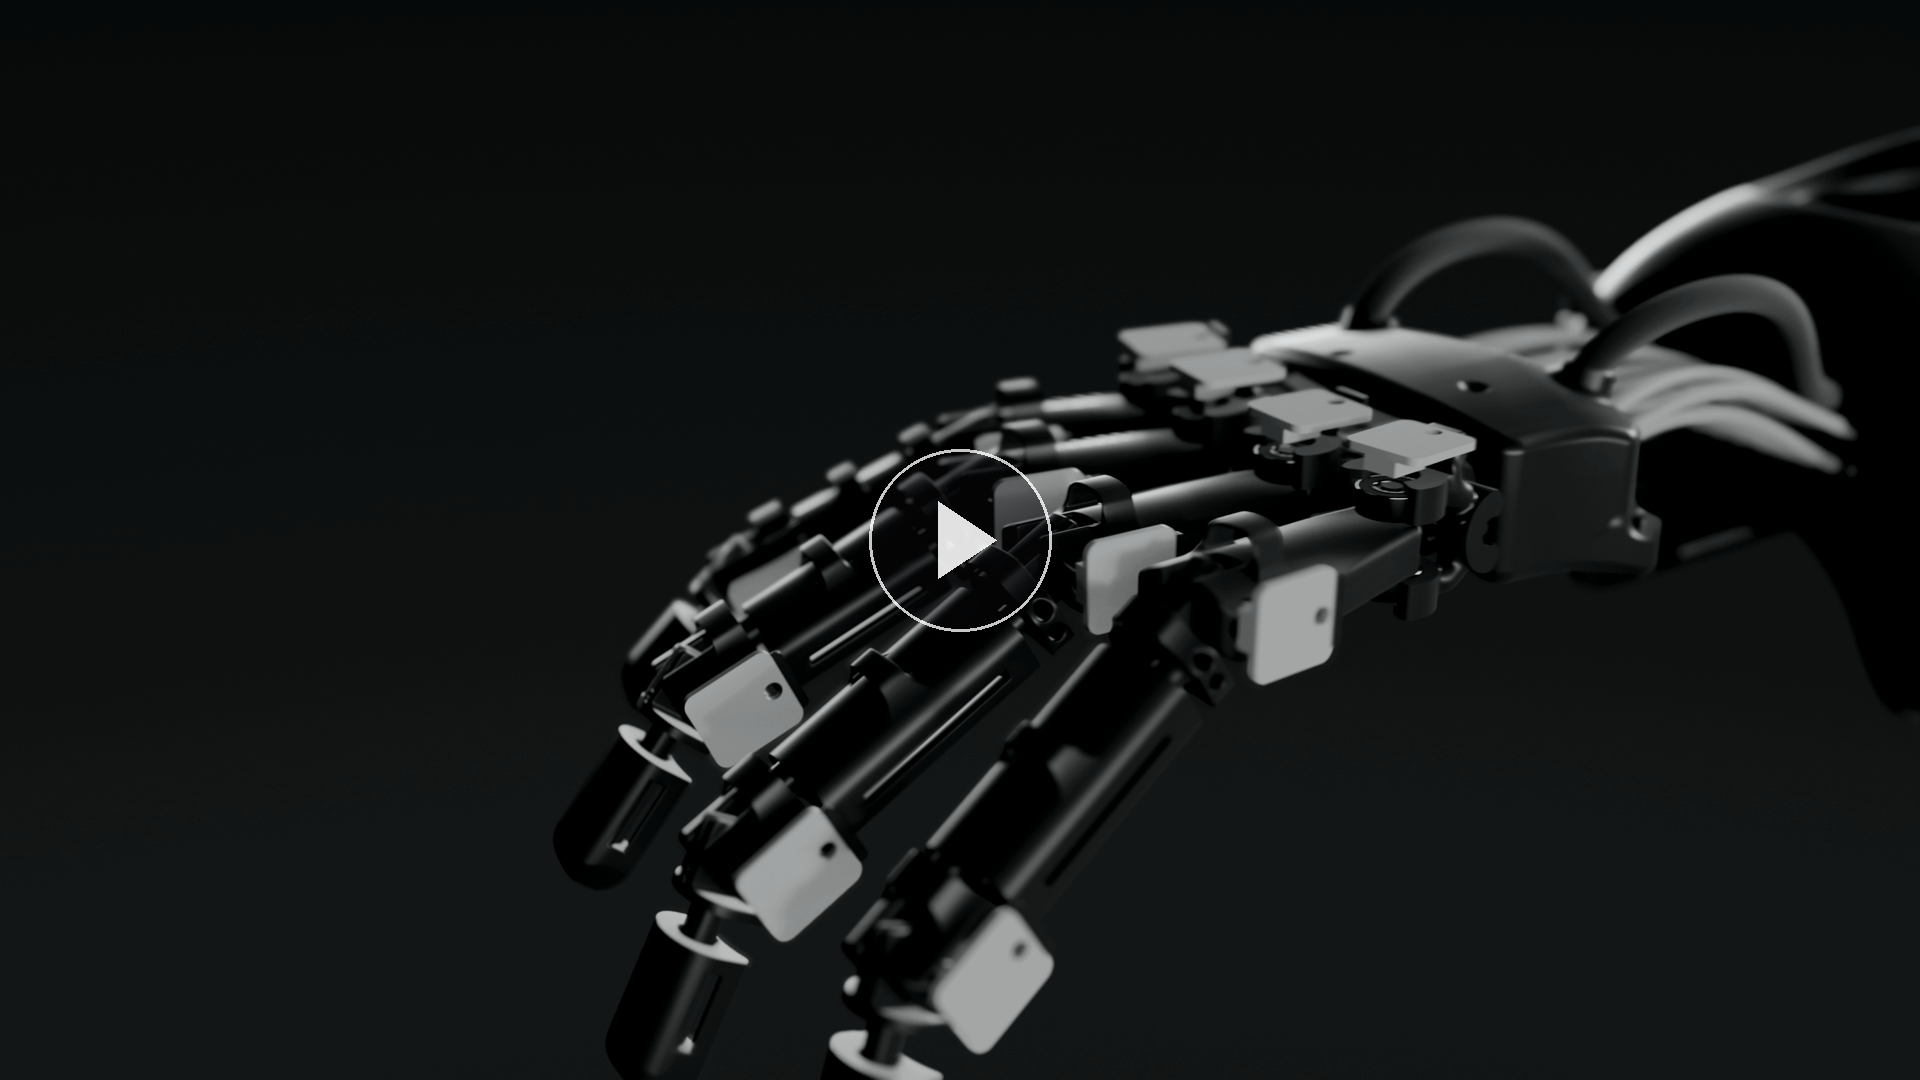
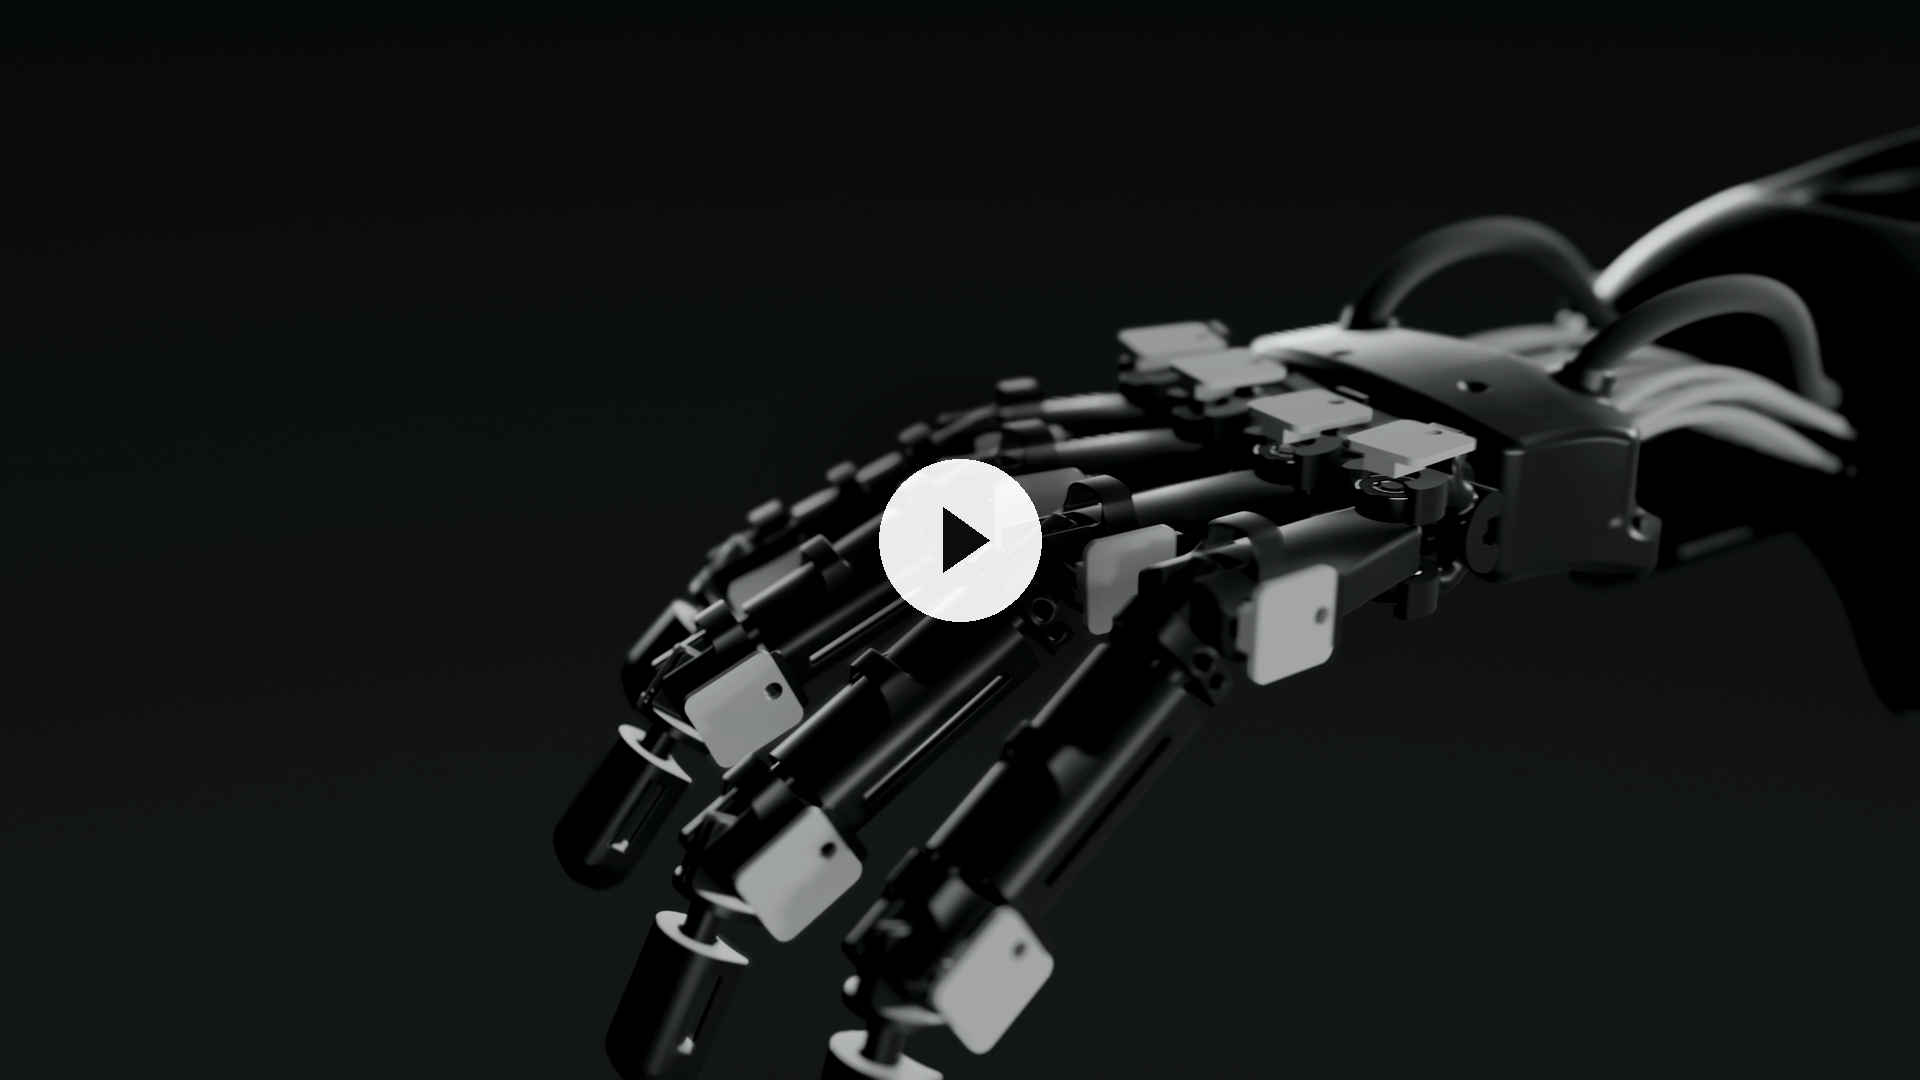
Make the film a poster you click, not looping clips
The autoplaying loops looked bad: silent, a few seconds long, cut mid-move, and
nothing like the film itself.

One poster instead. Clicking it opens the file in GitHub's video view, which
plays the whole thing at 1080p and normal speed, with sound.

A player inside the README is not available to write by hand: GitHub's
sanitiser strips <video> outright, and a repo-relative .mp4 is served as
application/octet-stream. The only inline player comes from pasting a bare
user-attachments URL, which GitHub converts itself. The README comment now says
that correctly - it previously said to paste a <video> tag, which would have
rendered nothing.

Changed region(s): [[0.4062, 0.3667, 0.5938, 0.6417]]

diff --git a/README.md b/README.md
@@ -23,21 +23,17 @@ force back into it, with every file needed to build one.
 
 <div align="center">
 
-<!-- The film. GitHub will not play a repo-relative .mp4 inline: raw.githubusercontent
-     serves it as application/octet-stream, so a <video> tag or image-syntax link renders
-     nothing. An animated WebP does autoplay inline, so the loop below plays on the page
-     with no click and no navigation, and links through to the full film with sound.
-     WebP rather than GIF because GIF is capped at 256 colours and pays per frame: the same
-     loop as a GIF was 10 fps and 2.97 MB, which visibly juddered on these slow camera moves.
-     This is 24 fps at 960 px in 1.65 MB.
-     To upgrade to a real inline player with audio: drag docs/media/takto-one-film.mp4 into
-     any issue comment or the README web editor, copy the
-     https://github.com/user-attachments/assets/<id> URL it mints, and replace this whole
-     <a>...</a> block with:
-       <video src="https://github.com/user-attachments/assets/<id>" poster="docs/media/film-poster.png" controls width="100%"></video> -->
-<a href="docs/media/takto-one-film.mp4"><img src="docs/media/film-loop.webp" alt="TAKTO ONE film" width="100%"></a>
+<!-- The film. A README cannot hold a video player: GitHub's sanitiser strips <video>
+     outright (it renders as an empty paragraph), and a repo-relative .mp4 is served as
+     application/octet-stream, so nothing plays in place. Clicking the poster opens the file
+     in GitHub's own video view, which plays it at full 1080p and normal speed, with sound.
+     For a player embedded in this page instead: drag docs/media/takto-one-film.mp4 into any
+     issue comment, then paste the https://github.com/user-attachments/assets/<id> URL it
+     mints on its OWN LINE here, bare. GitHub turns a bare attachment URL into a player
+     itself. Do not wrap it in a <video> tag - that gets stripped. -->
+<a href="docs/media/takto-one-film.mp4"><img src="docs/media/film-poster.png" alt="Watch the TAKTO ONE film" width="100%"></a>
 
-**[Watch the full film](docs/media/takto-one-film.mp4)** — 30 seconds, with sound
+**[Watch the film](docs/media/takto-one-film.mp4)** — 30 seconds, 1080p, with sound
 
 </div>
 
@@ -87,12 +83,6 @@ protocol, which is what lets one hand drive another.
 Together those are the loop that matters: **read a hand precisely, record it, and play it back
 into a hand.**
 
-<div align="center">
-
-<img src="docs/media/loop-motion.webp" alt="The hand articulating under tendon drive" width="88%">
-
-</div>
-
 ## Where it can go from here
 
 That foundation is what puts the following within reach. These are **directions rather than
@@ -122,12 +112,6 @@ Current status is stated plainly in [Where the project really stands](#where-the
 | **Electronics** | 2 custom PCBs, full KiCad sources + manufacturing outputs |
 | **Interface** | Browser operator console with a live 3D twin, over a serial→WebSocket bridge |
 | **Structure** | 3D printed; as built, a mix of PETG and PLA |
-
-<div align="center">
-
-<img src="docs/media/loop-machine.webp" alt="The assembled device" width="88%">
-
-</div>
 
 ---
 
